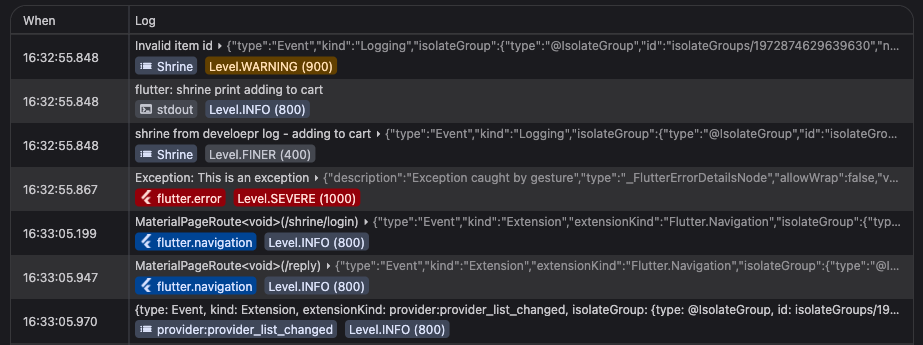
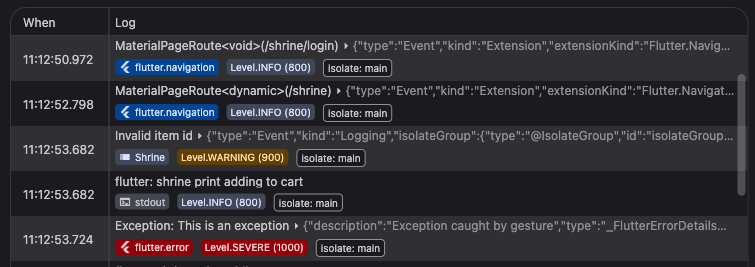
Add isolate information to logs metadata

Changed region(s): [[0.0, 0.0, 1.0, 0.9888]]

diff --git a/packages/devtools_app/lib/src/screens/logging/metadata.dart b/packages/devtools_app/lib/src/screens/logging/metadata.dart
@@ -48,6 +48,20 @@ class MetadataChips extends StatelessWidget {
       foregroundColor: logLevelColors.foreground,
     );
 
+    // Prepare the isolate chip.
+    Widget? isolateChip;
+    final isolateName = data.isolateRef?.name;
+    if (isolateName != null) {
+      isolateChip = IsolateChip(
+        name: isolateName,
+        id: data.isolateRef?.id,
+        maxWidth: maxWidth,
+        backgroundColor: colorScheme.surface,
+        foregroundColor: colorScheme.onSurface,
+        outlined: true,
+      );
+    }
+
     // Prepare frame time chip.
     String? elapsedFrameTimeAsString;
     try {
@@ -72,6 +86,7 @@ class MetadataChips extends StatelessWidget {
           foregroundColor: kindColors.foreground,
         ),
         logLevelChip,
+        if (isolateChip != null) isolateChip,
         if (elapsedFrameTimeAsString != null)
           FrameElapsedMetaDataChip(
             maxWidth: maxWidth,
@@ -87,10 +102,12 @@ abstract class MetadataChip extends StatelessWidget {
     super.key,
     required this.maxWidth,
     required this.text,
+    this.tooltip,
     this.icon,
     this.iconAsset,
     this.backgroundColor,
     this.foregroundColor,
+    this.outlined = false,
     this.includeLeadingMargin = true,
   });
 
@@ -98,15 +115,17 @@ abstract class MetadataChip extends StatelessWidget {
   final IconData? icon;
   final String? iconAsset;
   final String text;
+  final String? tooltip;
   final Color? backgroundColor;
   final Color? foregroundColor;
+  final bool outlined;
   final bool includeLeadingMargin;
 
   static const horizontalPadding = densePadding;
   static const verticalPadding = borderPadding;
   static const iconPadding = densePadding;
-  static final height = scaleByFontFactor(18.0);
   static const _borderRadius = 4.0;
+  static final _metadataIconSize = scaleByFontFactor(12.0);
 
   @override
   Widget build(BuildContext context) {
@@ -116,41 +135,49 @@ abstract class MetadataChip extends StatelessWidget {
     final foregroundColor =
         this.foregroundColor ?? theme.colorScheme.onSecondaryContainer;
 
-    return Container(
-      constraints: BoxConstraints(maxWidth: maxWidth),
-      decoration: BoxDecoration(
-        color: backgroundColor,
-        borderRadius: BorderRadius.circular(_borderRadius),
-      ),
-      margin: includeLeadingMargin
-          ? const EdgeInsets.only(left: denseSpacing)
-          : null,
-      padding: const EdgeInsets.symmetric(
-        horizontal: horizontalPadding,
-        vertical: verticalPadding,
-      ),
-      child: Row(
-        mainAxisSize: MainAxisSize.min,
-        children: [
-          if (icon != null || iconAsset != null) ...[
-            DevToolsIcon(
-              icon: icon,
-              iconAsset: iconAsset,
-              size: defaultIconSize,
-              color: foregroundColor,
+    return maybeWrapWithTooltip(
+      tooltip: tooltip,
+      child: Container(
+        constraints: BoxConstraints(maxWidth: maxWidth),
+        decoration: BoxDecoration(
+          color: backgroundColor,
+          borderRadius: BorderRadius.circular(_borderRadius),
+          border: outlined
+              ? Border.all(color: theme.colorScheme.subtleTextColor)
+              : null,
+        ),
+        margin: includeLeadingMargin
+            ? const EdgeInsets.only(left: denseSpacing)
+            : null,
+        padding: const EdgeInsets.symmetric(
+          horizontal: horizontalPadding,
+          vertical: verticalPadding,
+        ),
+        child: Row(
+          mainAxisSize: MainAxisSize.min,
+          children: [
+            if (icon != null || iconAsset != null) ...[
+              DevToolsIcon(
+                icon: icon,
+                iconAsset: iconAsset,
+                size: _metadataIconSize,
+                color: foregroundColor,
+              ),
+              const SizedBox(width: iconPadding),
+            ] else
+              // Include an empty SizedBox to ensure a consistent height for the
+              // chips, regardless of whether the chip includes an icon.
+              SizedBox(height: _metadataIconSize),
+            RichText(
+              text: TextSpan(
+                text: text,
+                style: theme
+                    .regularTextStyleWithColor(foregroundColor)
+                    .copyWith(fontSize: smallFontSize),
+              ),
             ),
-            const SizedBox(width: iconPadding),
-          ] else
-            // Include an empty SizedBox to ensure a consistent height for the
-            // chips, regardless of whether the chip includes an icon.
-            SizedBox(height: defaultIconSize),
-          RichText(
-            text: TextSpan(
-              text: text,
-              style: theme.regularTextStyleWithColor(foregroundColor),
-            ),
-          ),
-        ],
+          ],
+        ),
       ),
     );
   }
@@ -253,4 +280,16 @@ class LogLevelMetadataChip extends MetadataChip {
     }
     return (background: background, foreground: foreground);
   }
+}
+
+class IsolateChip extends MetadataChip {
+  const IsolateChip({
+    super.key,
+    required String name,
+    required String? id,
+    required super.maxWidth,
+    super.backgroundColor,
+    super.foregroundColor,
+    super.outlined = false,
+  }) : super(text: 'isolate: $name', tooltip: id);
 }

diff --git a/packages/devtools_app/lib/src/screens/logging/logging_controller.dart b/packages/devtools_app/lib/src/screens/logging/logging_controller.dart
@@ -257,6 +257,10 @@ class LoggingController extends DisposableController
   }
 
   void _handleExtensionEvent(Event e) {
+    final kind = e.extensionKind!.toLowerCase();
+    final timestamp = e.timestamp;
+    final isolateRef = e.isolate;
+
     if (e.extensionKind == FlutterEvent.frame) {
       final frame = FrameInfo(e.extensionData!.data);
 
@@ -266,10 +270,11 @@ class LoggingController extends DisposableController
 
       log(
         LogData(
-          e.extensionKind!.toLowerCase(),
+          kind,
           jsonEncode(e.extensionData!.data),
-          e.timestamp,
+          timestamp,
           summary: frameInfoText,
+          isolateRef: isolateRef,
         ),
       );
     } else if (e.extensionKind == FlutterEvent.imageSizesForFrame) {
@@ -278,10 +283,11 @@ class LoggingController extends DisposableController
       for (final image in images) {
         log(
           LogData(
-            e.extensionKind!.toLowerCase(),
+            kind,
             jsonEncode(image.json),
-            e.timestamp,
+            timestamp,
             summary: image.summary,
+            isolateRef: isolateRef,
           ),
         );
       }
@@ -290,19 +296,21 @@ class LoggingController extends DisposableController
 
       log(
         LogData(
-          e.extensionKind!.toLowerCase(),
+          kind,
           jsonEncode(e.json),
-          e.timestamp,
+          timestamp,
           summary: navInfo.routeDescription,
+          isolateRef: isolateRef,
         ),
       );
     } else if (_hideSummaryLogKinds.contains(e.extensionKind)) {
       log(
         LogData(
-          e.extensionKind!.toLowerCase(),
+          kind,
           jsonEncode(e.json),
-          e.timestamp,
+          timestamp,
           summary: '',
+          isolateRef: isolateRef,
         ),
       );
     } else if (e.extensionKind == FlutterEvent.serviceExtensionStateChanged) {
@@ -311,10 +319,11 @@ class LoggingController extends DisposableController
 
       log(
         LogData(
-          e.extensionKind!.toLowerCase(),
+          kind,
           jsonEncode(e.json),
-          e.timestamp,
+          timestamp,
           summary: '${changedInfo.extension}: ${changedInfo.value}',
+          isolateRef: isolateRef,
         ),
       );
     } else if (e.extensionKind == FlutterEvent.error) {
@@ -336,21 +345,23 @@ class LoggingController extends DisposableController
       final summary = _findFirstSummary(node) ?? node;
       log(
         LogData(
-          e.extensionKind!.toLowerCase(),
+          kind,
           jsonEncode(e.extensionData!.data),
-          e.timestamp,
+          timestamp,
           summary: summary.toDiagnosticsNode().toString(),
           level: Level.SEVERE.value,
           isError: true,
+          isolateRef: isolateRef,
         ),
       );
     } else {
       log(
         LogData(
-          e.extensionKind!.toLowerCase(),
+          kind,
           jsonEncode(e.json),
-          e.timestamp,
+          timestamp,
           summary: e.json.toString(),
+          isolateRef: isolateRef,
         ),
       );
     }
@@ -379,13 +390,22 @@ class LoggingController extends DisposableController
     };
 
     final message = jsonEncode(event);
-    log(LogData('gc', message, e.timestamp, summary: summary));
+    log(
+      LogData(
+        'gc',
+        message,
+        e.timestamp,
+        summary: summary,
+        isolateRef: e.isolateRef,
+      ),
+    );
   }
 
   void _handleDeveloperLogEvent(Event e) {
+    final eventJson = e.json!;
     final service = serviceConnection.serviceManager.service;
 
-    final logRecord = _LogRecord(e.json!['logRecord']);
+    final logRecord = _LogRecord(eventJson['logRecord']);
 
     String? loggerName =
         _valueAsString(InstanceRef.parse(logRecord.loggerName));
@@ -470,6 +490,7 @@ class LoggingController extends DisposableController
         isError: isError,
         summary: summary,
         detailsComputer: detailsComputer,
+        isolateRef: e.isolateRef,
       ),
     );
   }
@@ -700,6 +721,7 @@ class _StdoutEventHandler {
             buffer!.timestamp,
             summary: buffer!.summary! + message,
             isError: buffer!.isError,
+            isolateRef: e.isolateRef,
           ),
         );
         buffer = null;
@@ -723,6 +745,7 @@ class _StdoutEventHandler {
       e.timestamp,
       summary: summary,
       isError: isError,
+      isolateRef: e.isolateRef,
     );
 
     if (message == '\n') {
@@ -773,6 +796,7 @@ class LogData with SearchableDataMixin {
     this.isError = false,
     this.detailsComputer,
     this.node,
+    this.isolateRef,
   }) : level = level ?? (isError ? Level.SEVERE.value : Level.INFO.value) {
     final originalDetails = _details;
     // Fetch details immediately on creation.
@@ -796,6 +820,7 @@ class LogData with SearchableDataMixin {
   final int? timestamp;
   final bool isError;
   final String? summary;
+  final IsolateRef? isolateRef;
 
   String get levelName =>
       _levelName ??= LogLevelMetadataChip.generateLogLevel(level).name;
@@ -932,4 +957,8 @@ class ServiceExtensionStateChangedInfo {
 
   final String? extension;
   final Object value;
+}
+
+extension on Event {
+  IsolateRef? get isolateRef => IsolateRef.parse(this.json?['isolate']);
 }

diff --git a/packages/devtools_app/lib/src/screens/logging/_message_column.dart b/packages/devtools_app/lib/src/screens/logging/_message_column.dart
@@ -75,14 +75,19 @@ class MessageColumn extends ColumnData<LogData>
                         data.summary!,
                         theme.regularTextStyle,
                       ),
-                    if (hasSummary && hasDetails())
-                      WidgetSpan(
-                        child: Icon(
-                          Icons.arrow_right,
-                          size: defaultIconSize,
-                          color: theme.colorScheme.onSurface,
-                        ),
-                      ),
+                    WidgetSpan(
+                      child: hasSummary && hasDetails()
+                          ? Icon(
+                              Icons.arrow_right,
+                              size: defaultIconSize,
+                              color: theme.colorScheme.onSurface,
+                            )
+                          :
+                          // Include an empty SizedBox to ensure a consistent
+                          // height for the text display, regardless of whether
+                          // the log has details information.
+                          SizedBox(height: defaultIconSize),
+                    ),
                     if (hasDetails())
                       ...processAnsiTerminalCodes(
                         detailsComputed ? data.details! : '<fetching>',
@@ -96,7 +101,7 @@ class MessageColumn extends ColumnData<LogData>
             ),
             Padding(
               padding: const EdgeInsets.only(
-                top: borderPadding,
+                top: densePadding,
                 bottom: densePadding,
               ),
               child: LayoutBuilder(

diff --git a/packages/devtools_app/lib/src/screens/logging/_logs_table.dart b/packages/devtools_app/lib/src/screens/logging/_logs_table.dart
@@ -22,7 +22,7 @@ class LogsTable extends StatelessWidget {
     required this.activeSearchMatchNotifier,
   });
 
-  static final _logRowHeight = scaleByFontFactor(44.0);
+  static final _logRowHeight = scaleByFontFactor(45.0);
 
   final LoggingController controller;
   final List<LogData> data;

diff --git a/packages/devtools_app/release_notes/NEXT_RELEASE_NOTES.md b/packages/devtools_app/release_notes/NEXT_RELEASE_NOTES.md
@@ -42,7 +42,8 @@ TODO: Remove this section if there are not any general updates.
 due to lazy loading. - [#8421](https://github.com/flutter/devtools/pull/8421)
 
 * Added support for displaying metadata, such as log
-severity. [#8419](https://github.com/flutter/devtools/pull/8419)
+severity, category, and isolate name.
+[#8419](https://github.com/flutter/devtools/pull/8419), []()
     ![Logging metadata display](images/log_metadata.png "Logging metadata display")
 
 * Add a text filter to the top-level logging controls. -
